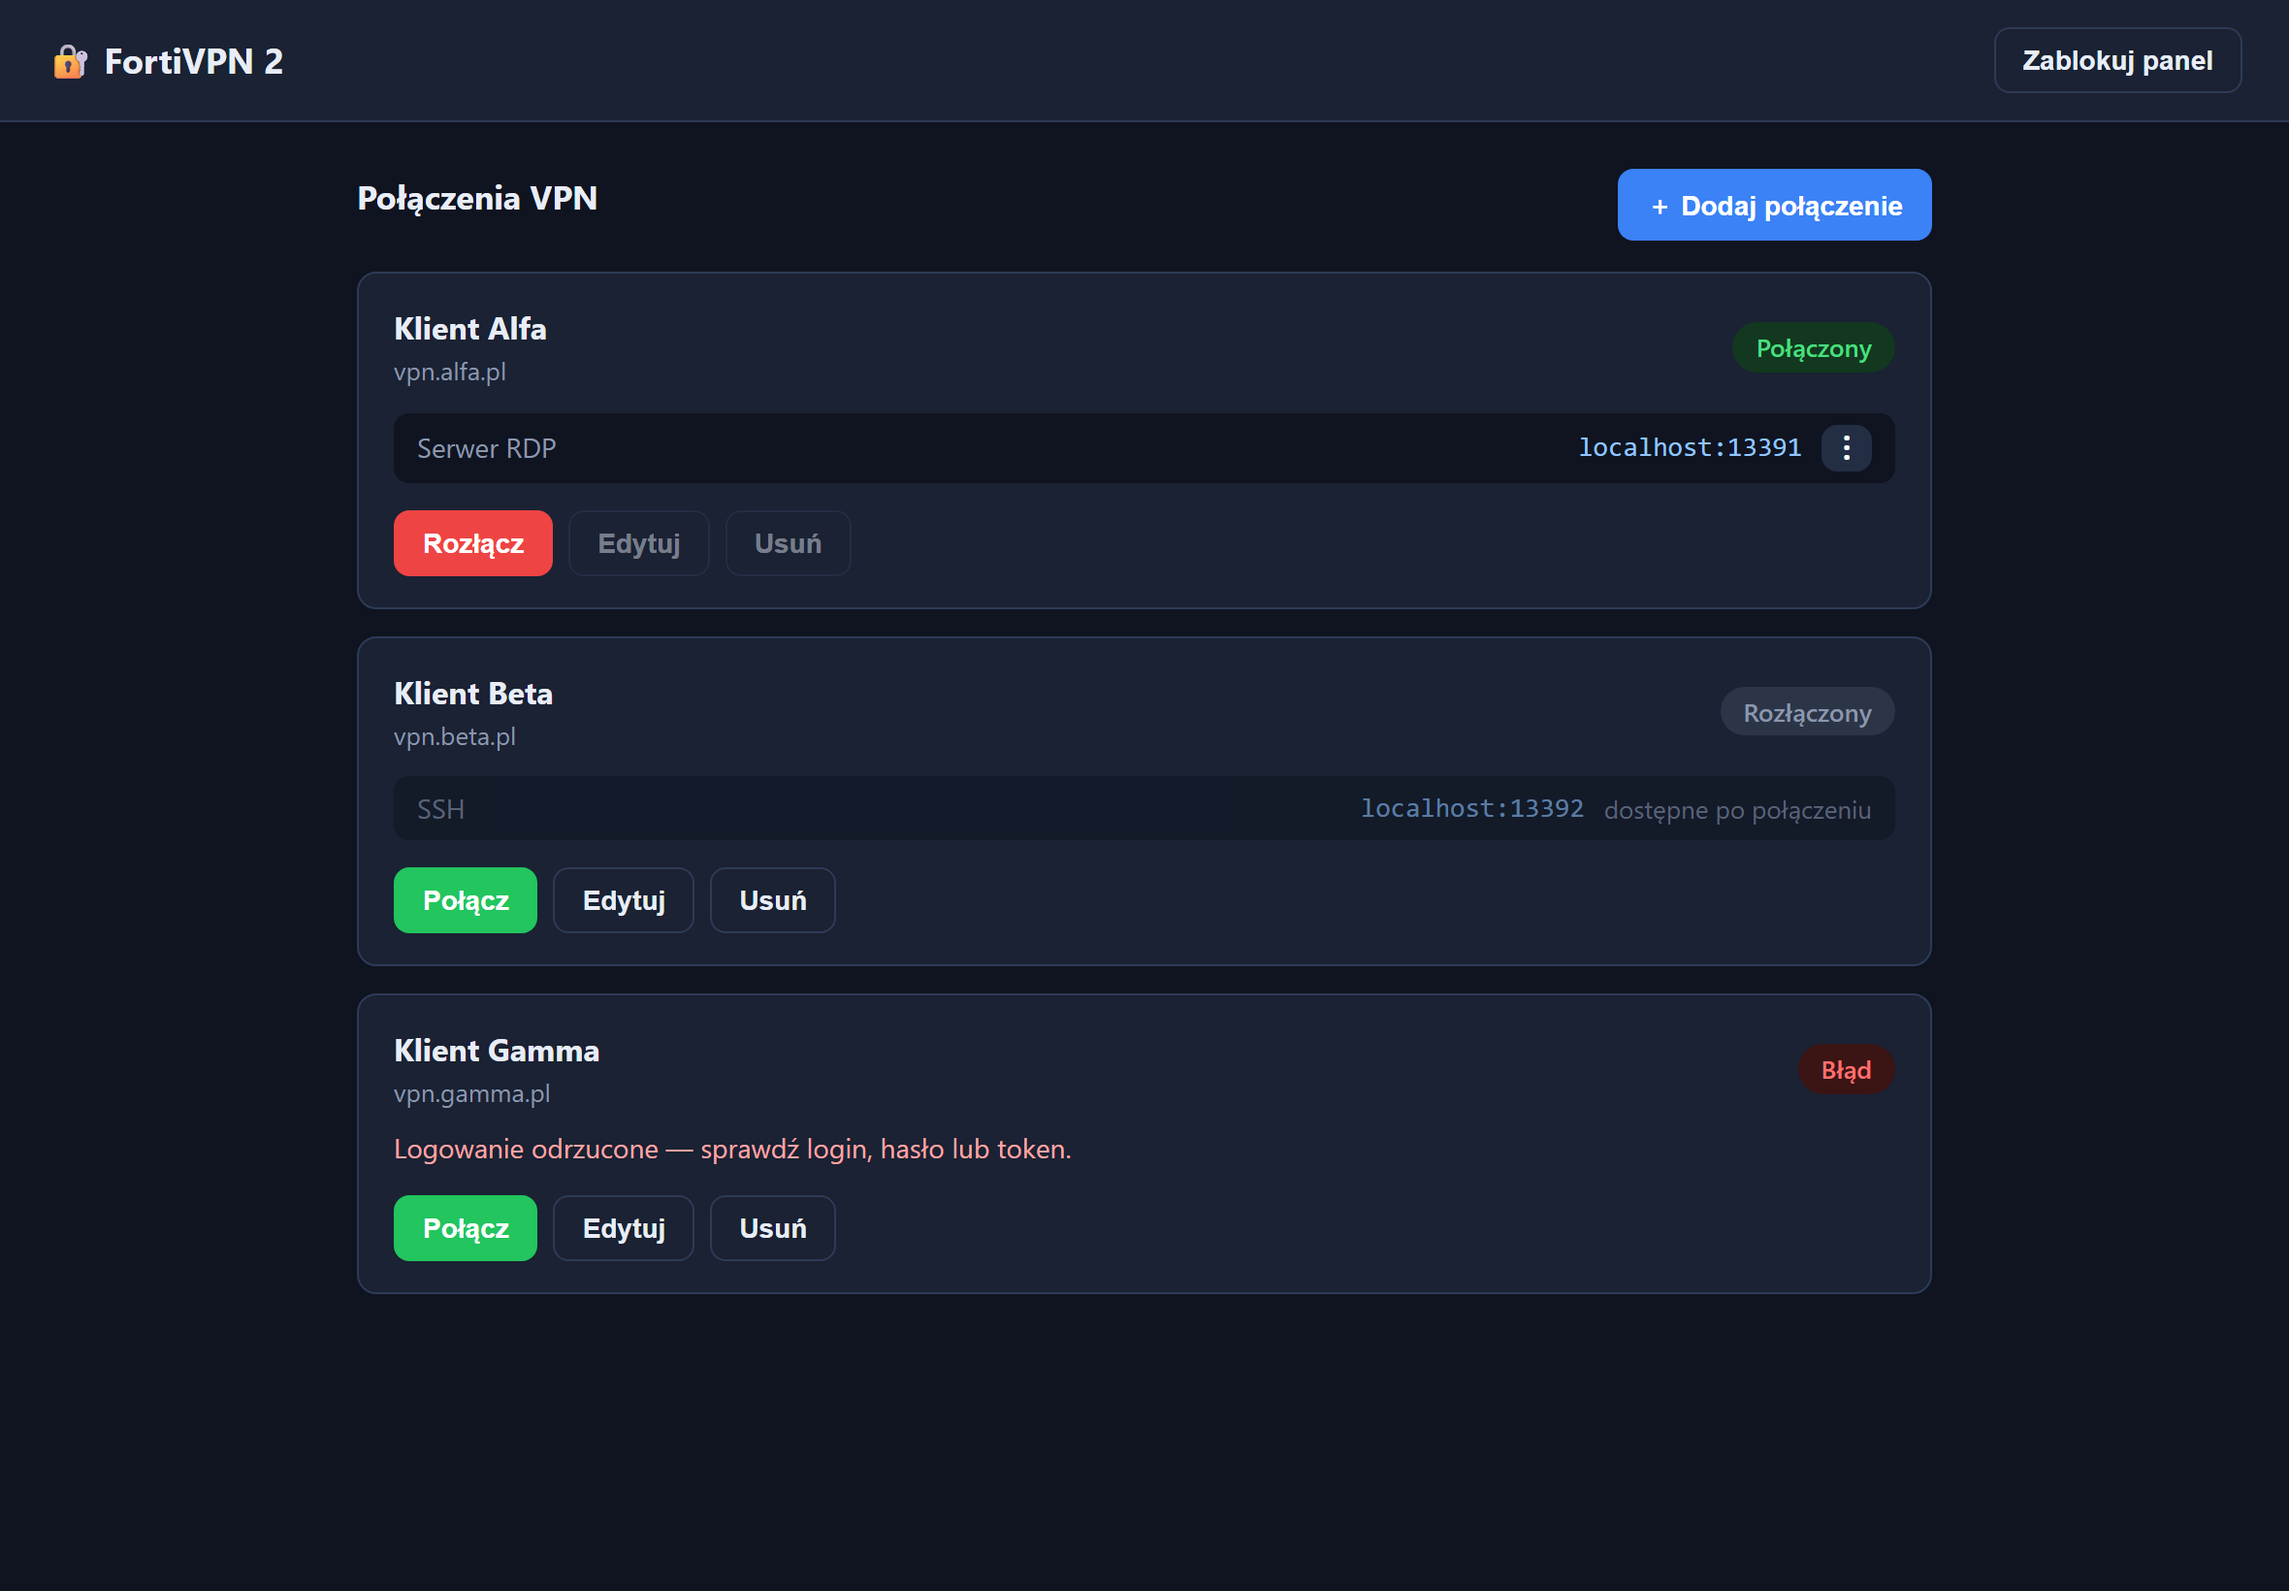
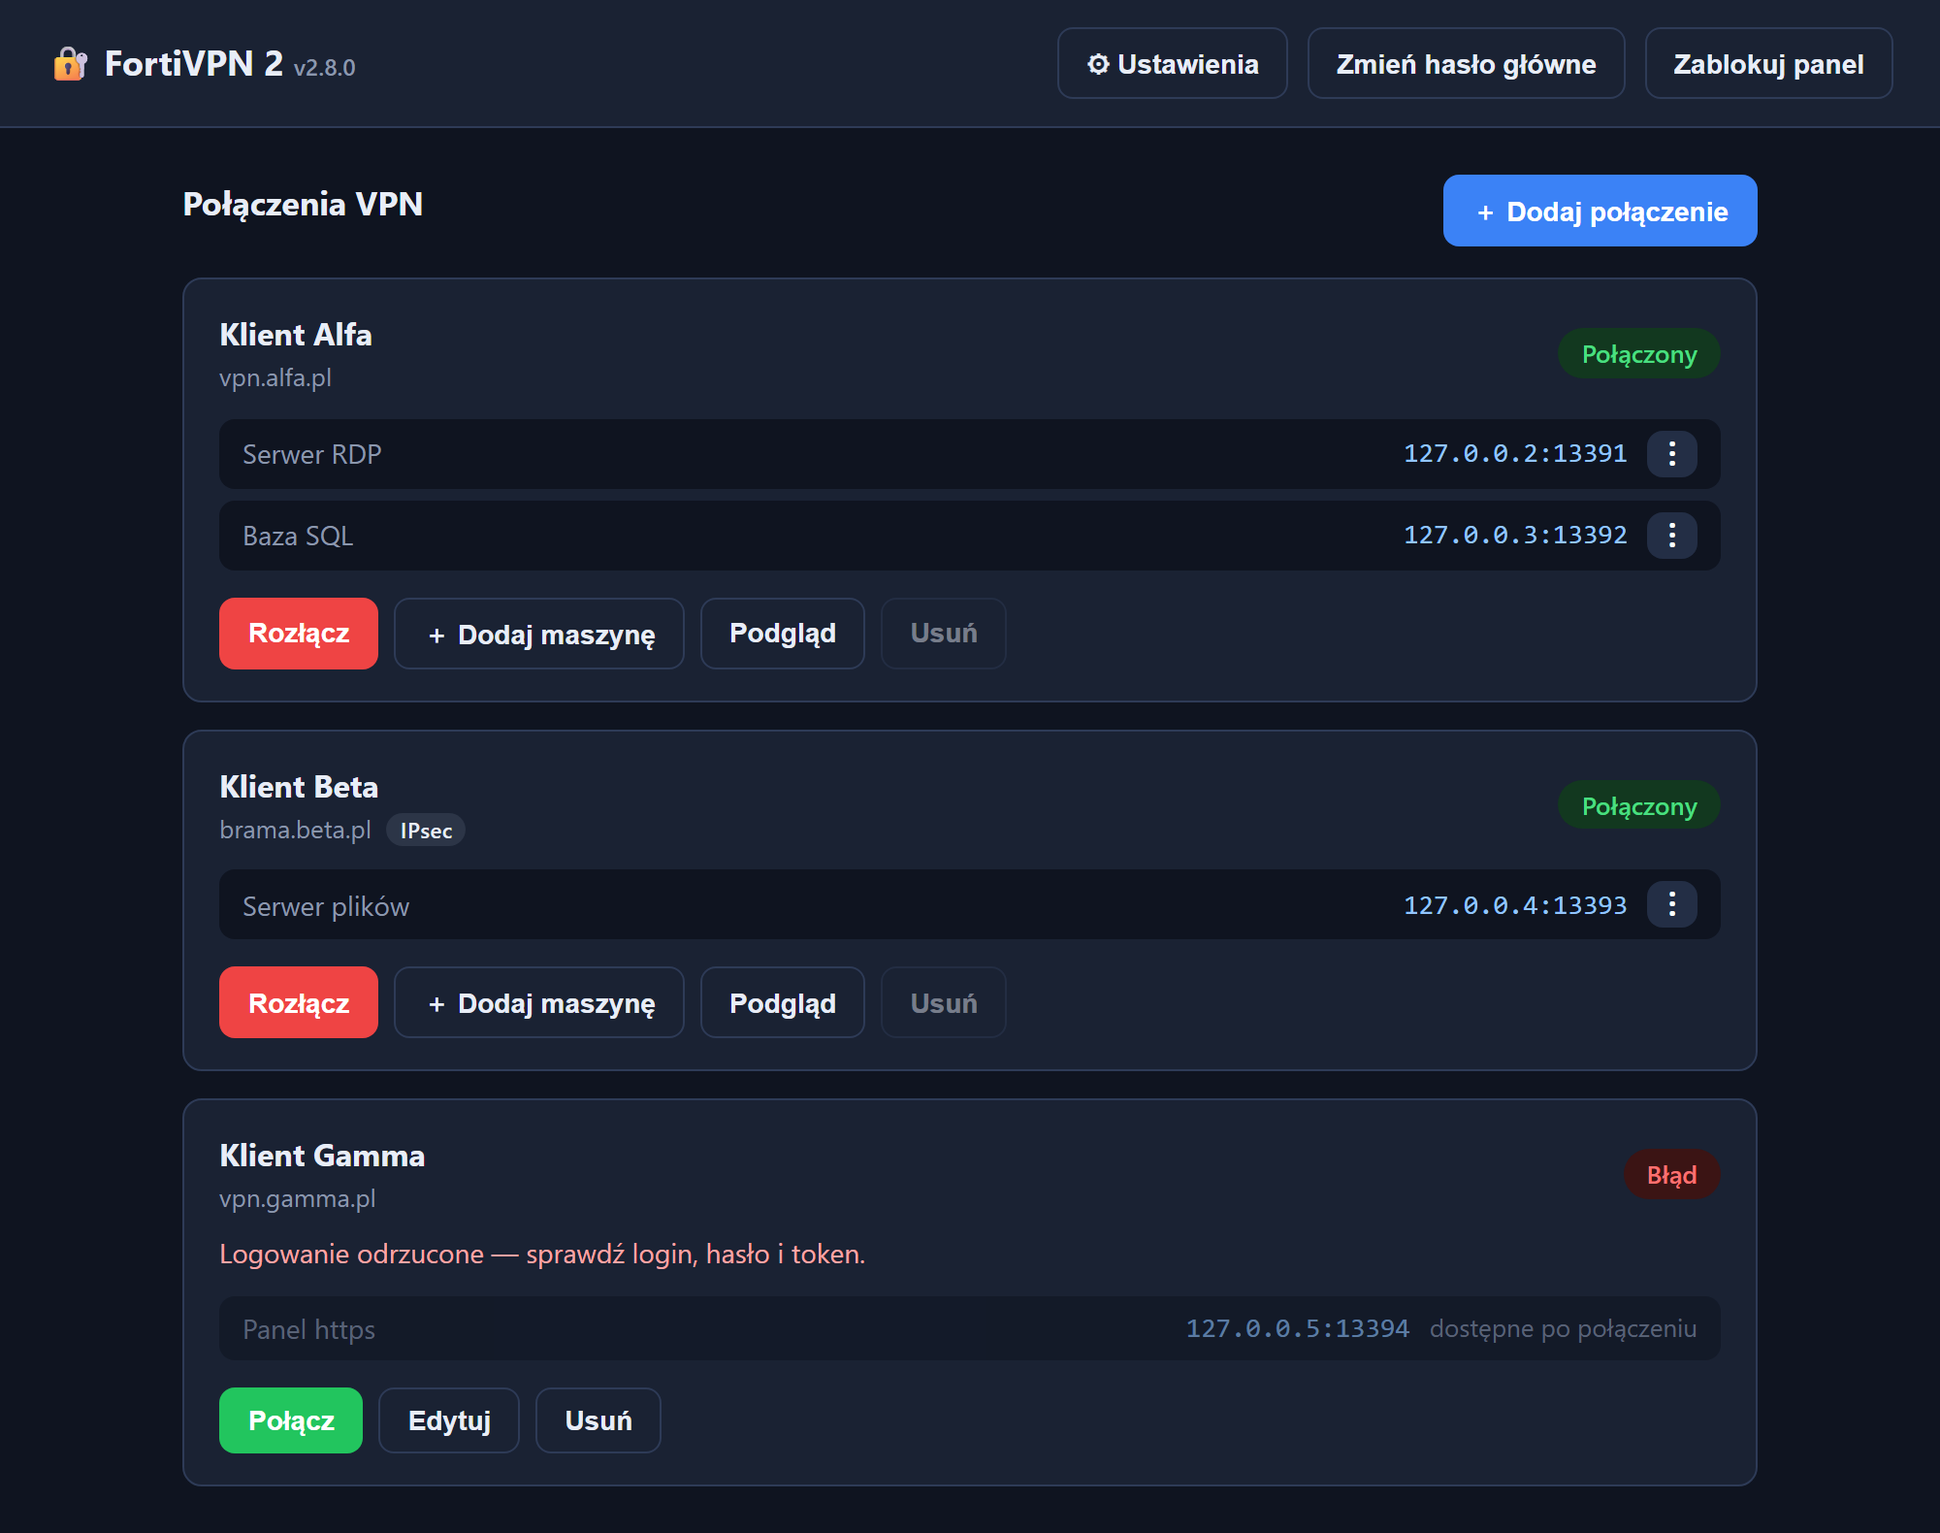
Rebuild the FortiVPN 2 page against 2.8.0
The screenshots were taken before IPsec and before the settings window,
so they showed a header with one button and a panel that no longer
exists. The project regenerates them with tools/screenshots.js now, so
this takes the current set: the connection list with per-machine
addresses and an IPsec tag, the certificate prompt, a connected profile,
and the update bar.

Three things the page did not know about. The panel updates itself, and
it does it by asking this very page: once a day, a bar with the version,
the date and the size, and on Windows a button that installs it while
keeping saved connections. "Connect over RDP" opens the remote desktop
straight at the address rather than saving an .rdp file, which is what
stops Windows warning about an unknown publisher and killing the
clipboard for the session. A machine can be added to a connection that
is already up.

Settings also export every connection to one .enc file, still encrypted
under the master password, with the button on the lock screen too, so
that joins the security section.

The project's own site job landed meanwhile and uses PROJECT: fortivpn2
with the tag fortivpn2-v<version>, which is what this page was already
configured for, and its readme now sends people here to download. The
panel's update check reads the same tag and file name, so RELEASES.md
lists it alongside the other three programs that read this repository.

Checked in Chromium across all seven pages at 1280 and 360 px in both
[…]

diff --git a/fortivpn2/index.html b/fortivpn2/index.html
@@ -33,7 +33,7 @@
     you connect with the RDP or SSH client you already have.
   </p>
   <p class="claim">Your own network stays out of it. Nothing to install but Docker.</p>
-  <img class="banner" src="img/panel.png" alt="The panel with three VPN connections: one connected, one disconnected, one reporting a login error">
+  <img class="banner" src="img/panel.png" alt="The panel listing several VPN connections, one of them connected">
 </div>
 
 <div class="downloads wrap" id="download">
@@ -60,7 +60,7 @@
     It needs <a href="https://www.docker.com/products/docker-desktop/">Docker Desktop</a>
     running, and nothing else. Most of the archive is the image itself, which is
     why it is large; once it is loaded the panel works with no internet beyond
-    Docker.
+    Docker. Later versions the panel can fetch from this page by itself.
   </p>
 
   <p class="note">
@@ -84,7 +84,8 @@
         <p>
           Forti SSL-VPN, and IPsec for FortiGate dial-up: IKEv1 with a shared key
           and XAuth, IKEv1 or IKEv2 on the key alone. A FortiToken is appended to
-          the password, which is how XAuth takes it.
+          the password, which is how XAuth takes it. Certificate and EAP
+          authentication are not supported; for those, SSL-VPN remains.
         </p>
       </div>
       <div class="feature">
@@ -113,19 +114,22 @@
         </p>
       </div>
       <div class="feature">
-        <h3>Copy the address, paste it in</h3>
+        <h3>Remote desktop without the ceremony</h3>
         <p>
-          Each machine shows something like <code>127.0.0.3:13392</code> with a
-          copy button. That goes straight into an RDP or SSH client; nothing about
-          the tunnel is its concern.
+          “Connect over RDP” opens the remote desktop straight at the address:
+          no <code>.rdp</code> file saved, no unknown-publisher warning, clipboard
+          and printers working from the first second. A machine can also be added
+          to a connection that is already up, without dropping it.
         </p>
       </div>
       <div class="feature">
-        <h3>It says what went wrong</h3>
+        <h3>It updates itself from this page</h3>
         <p>
-          A refused login, a tunnel that dropped, a machine that is not answering
-          yet: the connection card carries the reason in words rather than a log
-          to read.
+          Once a day the panel asks this page whether a newer version exists and
+          shows a bar above the list with the version, the date and the size. On
+          Windows one button downloads and installs it, keeping the connections
+          you saved. Turn the check off and the panel talks to nothing but your
+          tunnels.
         </p>
       </div>
     </div>
@@ -134,7 +138,7 @@
 
 <section class="wrap">
   <h2>How it looks</h2>
-  <p class="intro">The two moments that usually cost the most time.</p>
+  <p class="intro">The moments that usually cost the most time, and the one that used to cost a download.</p>
   <figure class="shot-wide">
     <img src="img/certificate.png" alt="A prompt offering to trust an unknown server certificate and connect" loading="lazy" decoding="async">
     <figcaption>An unknown certificate, answered in place</figcaption>
@@ -142,6 +146,10 @@
   <figure class="shot-wide">
     <img src="img/connected.png" alt="A connected profile showing the local address of a machine with a copy button" loading="lazy" decoding="async">
     <figcaption>Connected, with the address to paste into your client</figcaption>
+  </figure>
+  <figure class="shot-wide">
+    <img src="img/update.png" alt="A bar above the connection list announcing a newer version with its date and size" loading="lazy" decoding="async">
+    <figcaption>A newer version, found on this page and installed from the panel</figcaption>
   </figure>
 </section>
 
@@ -175,6 +183,15 @@
           only talks to the forwards you asked for.
         </p>
       </div>
+      <div class="feature">
+        <h3>A backup you can carry</h3>
+        <p>
+          Settings export every connection to one <code>.enc</code> file, still
+          encrypted under the master password, for a backup or for moving the
+          panel to another computer. The export button is on the lock screen too,
+          so a copy does not require unlocking the vault.
+        </p>
+      </div>
     </div>
   </div>
 </section>
@@ -189,8 +206,8 @@
 
 <script src="../assets/releases.js"></script>
 <script>
-// One file per release. The project names its package fortivpn2-<version>.zip,
-// so that is the prefix here too, rather than the repository's FortiVPN-2.
+// One file per release, and the panel's own update check reads the same tag and
+// the same file name from this repository, so neither may drift from the other.
 initDownloads({
   tagPrefix: 'fortivpn2-v',
   files: [

diff --git a/RELEASES.md b/RELEASES.md
@@ -298,7 +298,8 @@ owner is the one person who will never notice. Tibia Sounds Config and Treningi
 both ask this repository, filtered by their prefix. YT → MP4 has no updater of
 its own and its readme sends people to the project page. Mysttic Barcode Scanner
 adds two readers of the same kind: the configurator's update card and the
-desktop agent's self-update.
+desktop agent's self-update. FortiVPN 2's panel is a fourth: it asks once a day
+and offers to install what it finds.
 
 Three things are worth keeping in mind:
 
